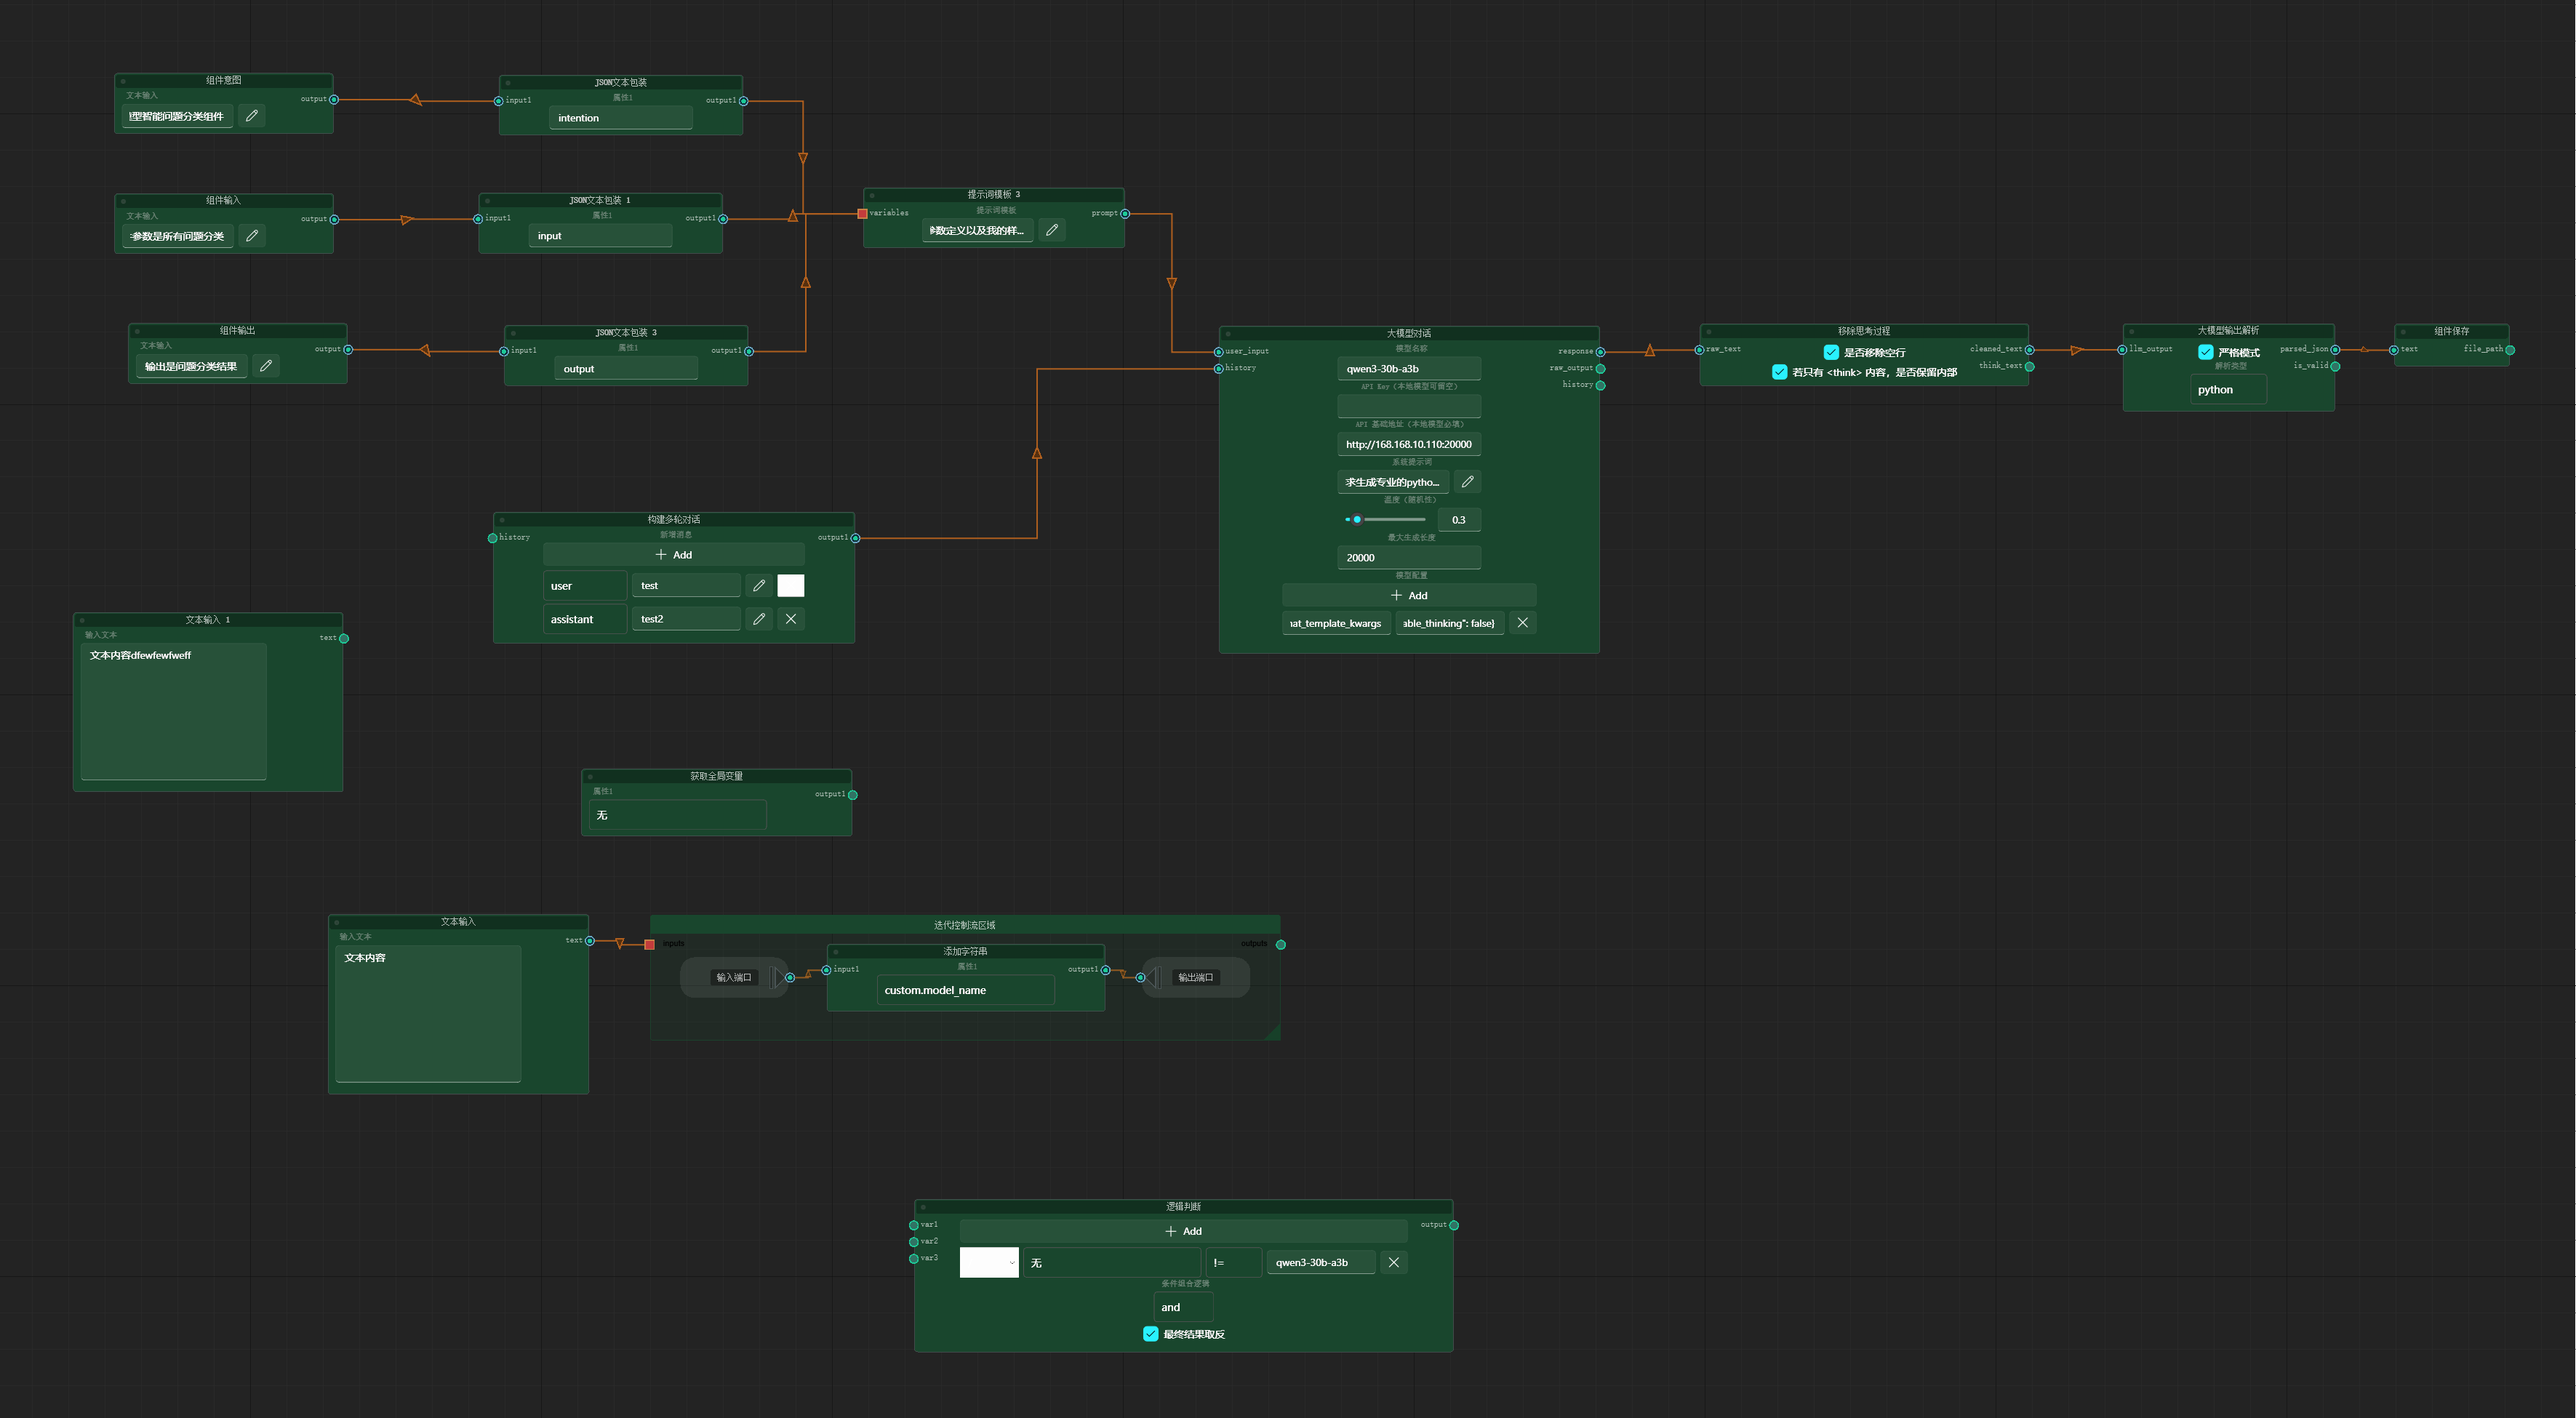
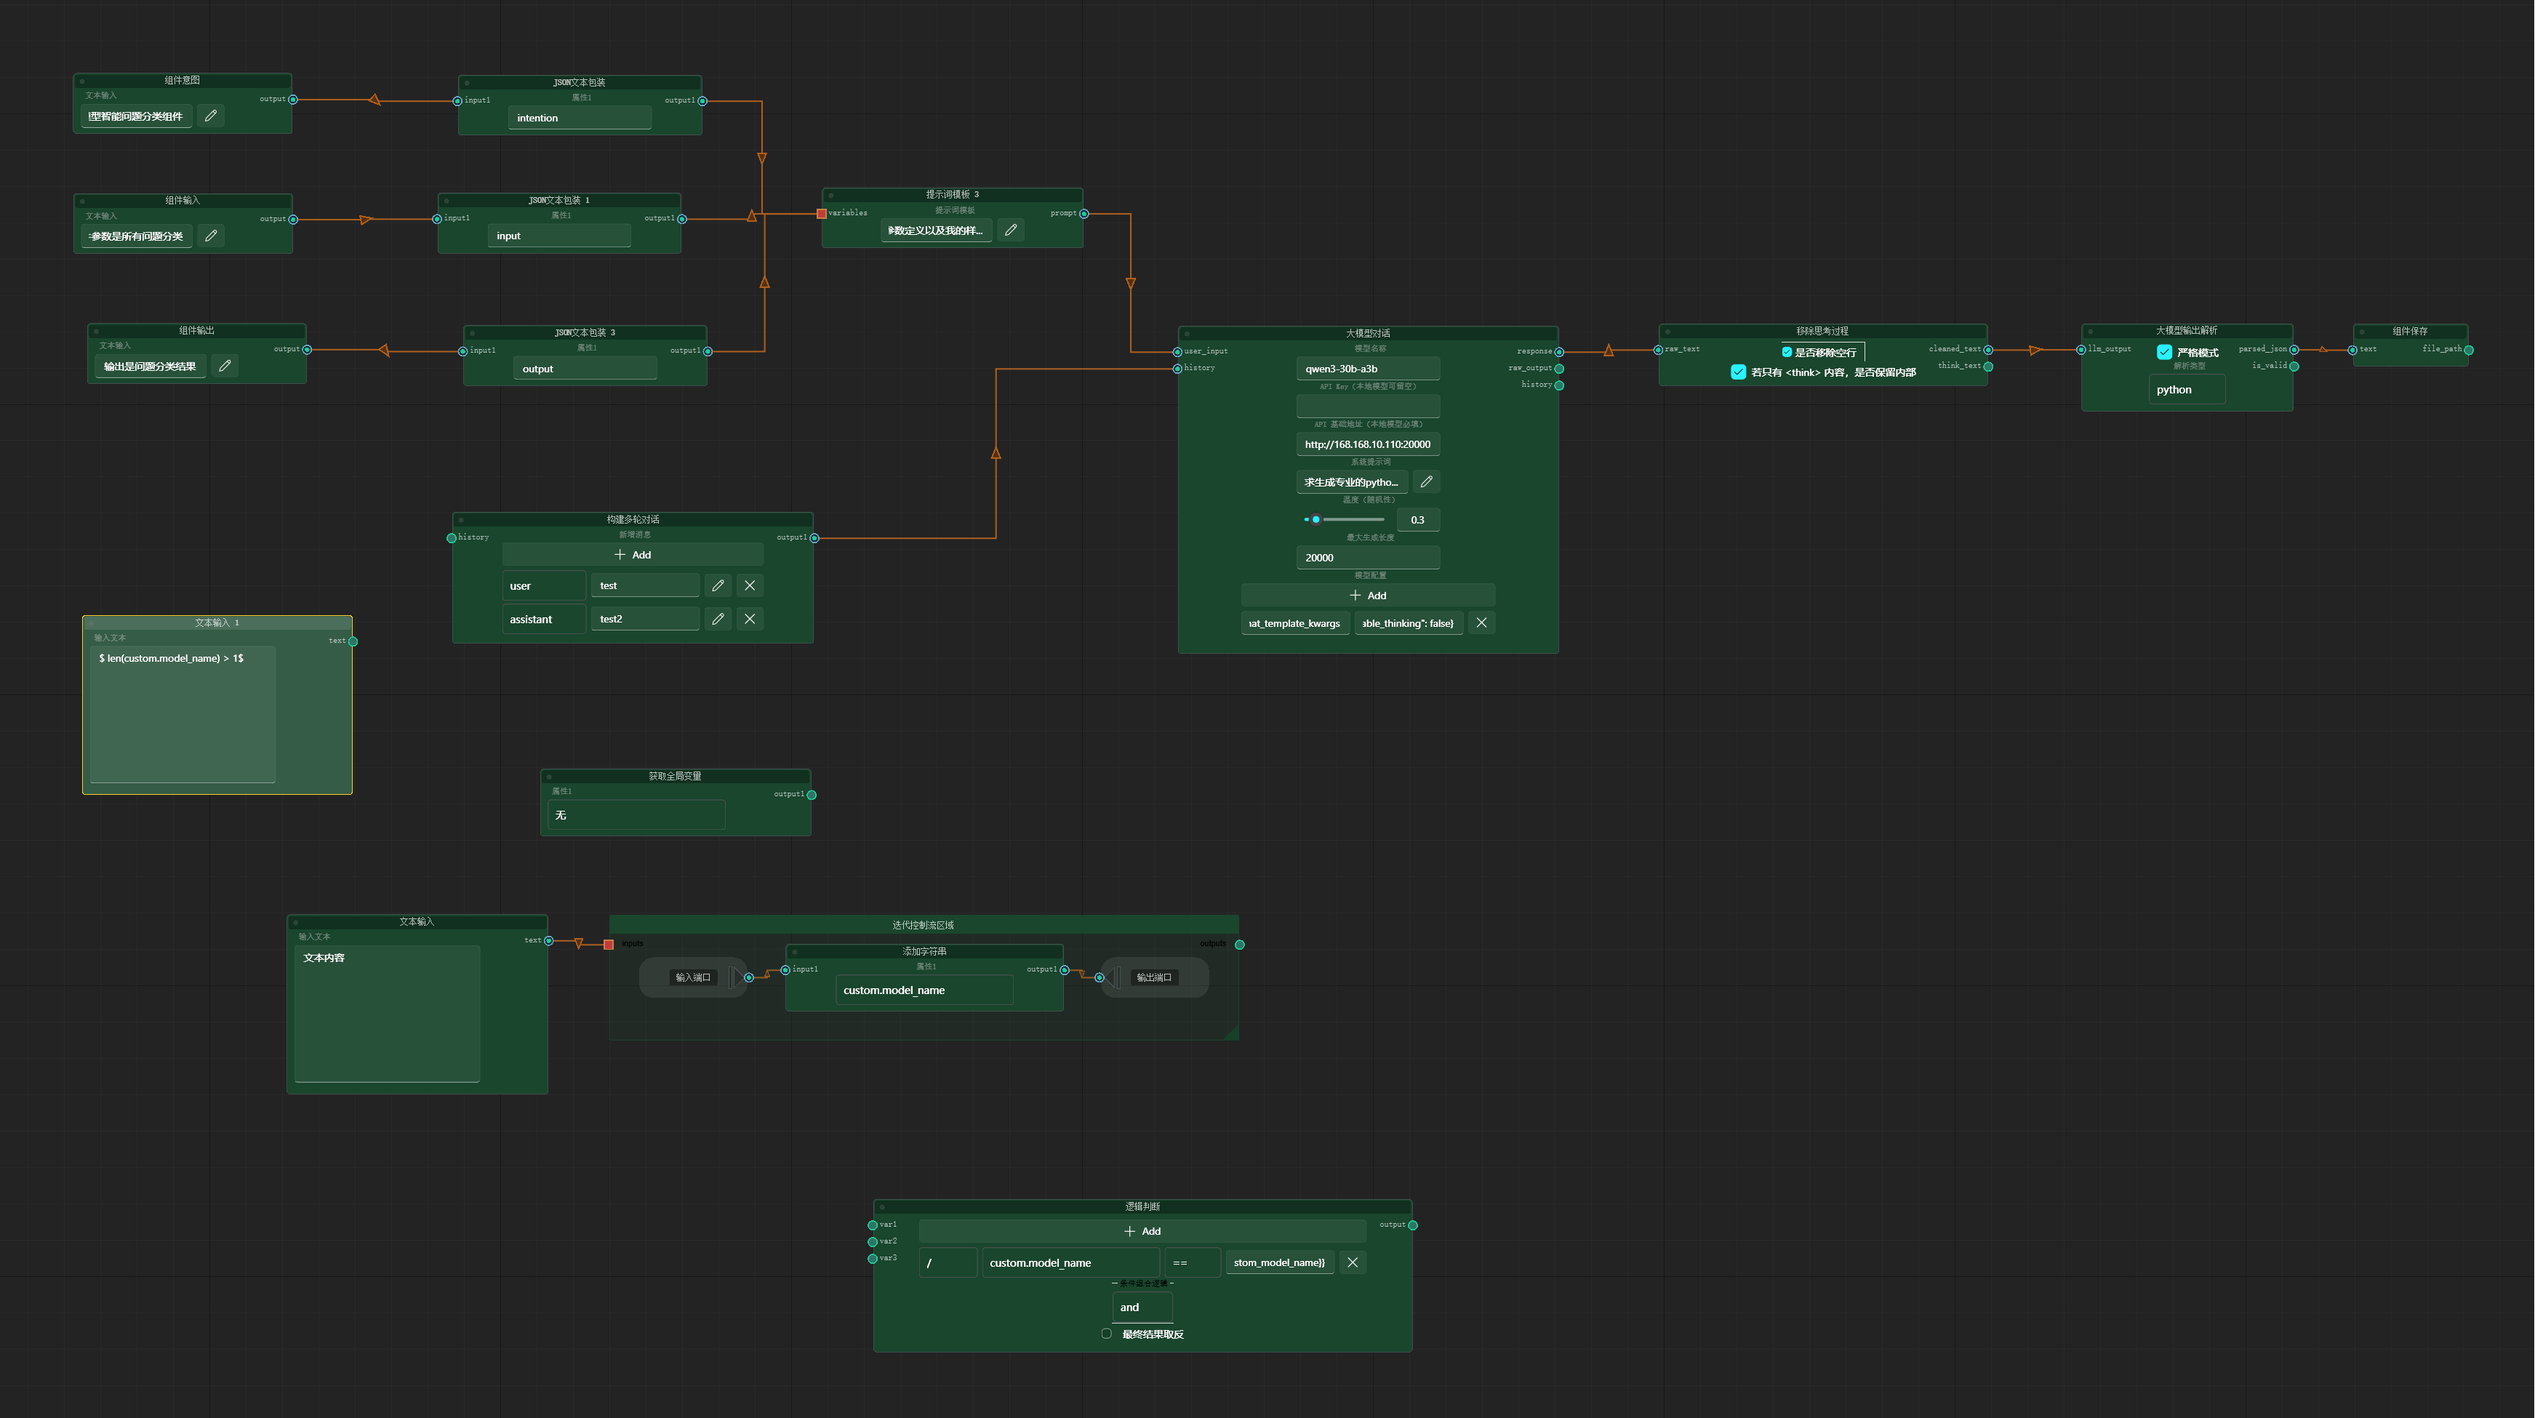
feat(dynamic-node): 支持表达式引擎与全局变量上下文
- 引入 ExpressionEngine 与 GlobalVariableContext 实现参数与输入的表达式求
- 修改表达式语法从 {{...}} 改为 $...$ 并增强变量引用安全性
- 添加 _evaluate_value_recursively 工具函数支持任意结构值的递归表达式处理
- 更新动态表单组件支持 set_value 方法
- 修复画布按键事件处理逻辑，确保事件正确传递
- 调整节点变量命名前缀从 node_ 改为 node_vars_
- 更新工作流配置文件中的节点 ID 与表达式引用示例

diff --git a/app/nodes/create_dynamic_node.py b/app/nodes/create_dynamic_node.py
@@ -12,11 +12,12 @@ from NodeGraphQt import BaseNode
 from PyQt5.QtWidgets import QFileDialog
 from loguru import logger
 
-from app.components.base import ArgumentType, PropertyType, ConnectionType
+from app.components.base import ArgumentType, PropertyType, ConnectionType, GlobalVariableContext
 from app.nodes.base_node import BasicNodeWithGlobalProperty
 from app.nodes.node_execute_script import _EXECUTION_SCRIPT_TEMPLATE
+from app.scheduler.expression_engine import ExpressionEngine
 from app.utils.node_logger import NodeLogHandler
-from app.utils.utils import draw_square_port
+from app.utils.utils import draw_square_port, _evaluate_value_recursively
 from app.widgets.node_widget.checkbox_widget import CheckBoxWidgetWrapper
 from app.widgets.node_widget.combobox_widget import ComboBoxWidgetWrapper
 from app.widgets.node_widget.dynamic_form_widget import DynamicFormWidgetWrapper
@@ -278,22 +279,51 @@ def create_node_class(component_class, full_path, file_path, parent_window=None)
             # === 全局变量 ===
             global_variable =  self.model.get_property("global_variable")
 
-            # === 收集输入 ===
-            inputs = {}
-            for input_port in self.input_ports():
-                port_name = input_port.name()
-                connected = input_port.connected_ports()
-                if connected:
-                    if len(connected) == 1:
-                        upstream = connected[0]
-                        value = upstream.node()._output_values.get(upstream.name())
-                        inputs[port_name] = value
-                    else:
-                        inputs[port_name] = [
-                            upstream.node()._output_values.get(upstream.name()) for upstream in connected
-                        ]
-                    if port_name in self.column_select:
-                        inputs[f"{port_name}_column_select"] = self.column_select.get(port_name)
+            # === 【关键】创建表达式引擎并求值 ===
+            if global_variable is not None:
+                gv = GlobalVariableContext()
+                gv.deserialize(global_variable)
+                expr_engine = ExpressionEngine(global_vars_context=gv)
+
+                # 递归求值 params
+                params = {k: _evaluate_value_recursively(v, expr_engine) for k, v in params.items()}
+
+                # 收集输入（稍后处理）
+                inputs_raw = {}
+                for input_port in self.input_ports():
+                    port_name = input_port.name()
+                    connected = input_port.connected_ports()
+                    if connected:
+                        if len(connected) == 1:
+                            upstream = connected[0]
+                            value = upstream.node()._output_values.get(upstream.name())
+                            inputs_raw[port_name] = value
+                        else:
+                            inputs_raw[port_name] = [
+                                upstream.node()._output_values.get(upstream.name()) for upstream in connected
+                            ]
+                        if port_name in self.column_select:
+                            inputs_raw[f"{port_name}_column_select"] = self.column_select.get(port_name)
+
+                # 处理 inputs
+                inputs = {k: _evaluate_value_recursively(v, expr_engine) for k, v in inputs_raw.items()}
+            else:
+                # 无全局变量时，按原逻辑收集 inputs
+                inputs = {}
+                for input_port in self.input_ports():
+                    port_name = input_port.name()
+                    connected = input_port.connected_ports()
+                    if connected:
+                        if len(connected) == 1:
+                            upstream = connected[0]
+                            value = upstream.node()._output_values.get(upstream.name())
+                            inputs[port_name] = value
+                        else:
+                            inputs[port_name] = [
+                                upstream.node()._output_values.get(upstream.name()) for upstream in connected
+                            ]
+                        if port_name in self.column_select:
+                            inputs[f"{port_name}_column_select"] = self.column_select.get(port_name)
 
             # === 获取 requirements ===
             requirements_str = getattr(comp_obj, 'requirements', '').strip()

diff --git a/app/scheduler/expression_engine.py b/app/scheduler/expression_engine.py
@@ -44,7 +44,7 @@ class ExpressionEngine:
 
         # 节点输出变量 -> node_xxx
         for k, v in ctx.node_vars.items():
-            flat[f"node_{k}"] = v
+            flat[f"node_vars_{k}"] = v
 
         return flat
 
@@ -101,7 +101,7 @@ class ExpressionEngine:
         """
         判断是否为模板表达式（包含 {{...}}）
         """
-        return isinstance(value, str) and '{{' in value and '}}' in value
+        return isinstance(value, str) and re.search(r'\$[^$]*\$', value) is not None
 
     def evaluate_template(self, template: str) -> str:
         """
@@ -115,11 +115,12 @@ class ExpressionEngine:
             expr = match.group(1).strip()
             if not expr:
                 return ""
-            result = self.evaluate(expr)
+            safe_expr = re.sub(r'\b(env|custom|node_vars)\.([a-zA-Z_][a-zA-Z0-9_]*)', r'\1_\2', expr)
+            result = self.evaluate(safe_expr)
             return str(result) if result is not None else ""
 
-        # 替换所有 {{ ... }} 表达式
-        return re.sub(r'\{\{\s*(.*?)\s*\}\}', replace_match, template)
+        # 替换所有 $ ... $ 表达式
+        return re.sub(r'\$([^$]*)\$', replace_match, template)
 
     def get_available_variables(self) -> Dict[str, Any]:
         """获取所有可用变量（用于 UI 提示）"""

diff --git a/app/utils/utils.py b/app/utils/utils.py
@@ -245,3 +245,27 @@ def draw_square_port(painter, rect, info):
     painter.drawRect(rect)
 
     painter.restore()
+
+
+def _evaluate_value_recursively(value, expr_engine):
+    """
+    递归处理任意结构的值，对字符串执行表达式求值。
+    如果求值失败，保持原始字符串不变。
+    """
+    if isinstance(value, str):
+        if expr_engine.is_template_expression(value):
+            try:
+                result = expr_engine.evaluate_template(value)
+                # 如果结果是错误信息（如 [ExprError: ...]），保留原字符串
+                if isinstance(result, str) and result.startswith("[Expr"):
+                    return value  # 👈 关键：失败时返回原字符串
+                return result
+            except Exception:
+                return value  # 👈 任何异常都返回原字符串
+        return value
+    elif isinstance(value, list):
+        return [_evaluate_value_recursively(item, expr_engine) for item in value]
+    elif isinstance(value, dict):
+        return {k: _evaluate_value_recursively(v, expr_engine) for k, v in value.items()}
+    else:
+        return value

diff --git a/app/interfaces/canvas_interface.py b/app/interfaces/canvas_interface.py
@@ -12,7 +12,7 @@ from NodeGraphQt.constants import PipeLayoutEnum
 from PyQt5 import QtCore
 from PyQt5.QtCore import Qt, QRectF, pyqtSignal
 from PyQt5.QtGui import QImage, QPainter
-from PyQt5.QtWidgets import QWidget, QHBoxLayout, QVBoxLayout, QFileDialog
+from PyQt5.QtWidgets import QWidget, QHBoxLayout, QVBoxLayout, QFileDialog, QApplication
 from loguru import logger
 from qfluentwidgets import (
     ToolButton, InfoBar,
@@ -182,6 +182,7 @@ class CanvasPage(QWidget):
             self._scheduler = None
 
     def _canvas_key_press_event(self, event):
+        super(type(self.graph.viewer()), self.graph.viewer()).keyPressEvent(event)
         if event.modifiers() == QtCore.Qt.ControlModifier:
             if event.key() == QtCore.Qt.Key_C:
                 self._copy_selected_nodes()
@@ -189,7 +190,6 @@ class CanvasPage(QWidget):
             elif event.key() == QtCore.Qt.Key_V:
                 self._paste_nodes()
                 return
-        super(type(self.graph.viewer()), self.graph.viewer()).keyPressEvent(event)
 
     def eventFilter(self, obj, event):
         if obj is self.canvas_widget and event.type() == event.Resize:

diff --git a/app/components/base.py b/app/components/base.py
@@ -422,7 +422,7 @@ class BaseComponent(ABC):
     @classmethod
     def get_params_model(cls) -> Type[BaseModel]:
         """动态创建参数模型（支持 CHOICE / DYNAMICFORM）"""
-        fields: Dict[str, tuple] = {"global_variable": (Dict, Field(default={}))}
+        fields: Dict[str, tuple] = {}
 
         for prop_name, prop_def in cls.properties.items():
             if prop_def.type == PropertyType.INT:

diff --git a/app/widgets/node_widget/dynamic_form_widget.py b/app/widgets/node_widget/dynamic_form_widget.py
@@ -69,6 +69,8 @@ class FormFieldWidget(QtWidgets.QWidget):
                     widget.setCurrentText(str(v))
                 elif hasattr(widget, 'setData'):
                     widget.setData(str(v))
+                elif hasattr(widget, 'set_value'):
+                    widget.set_value(str(v))
 
 
 class DynamicFormWidget(QtWidgets.QWidget):
